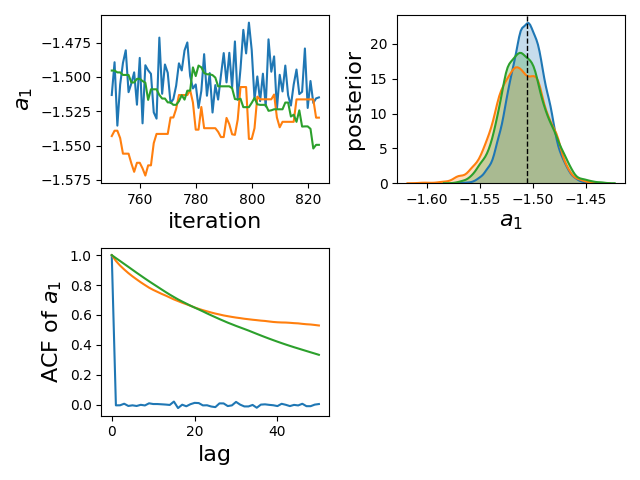
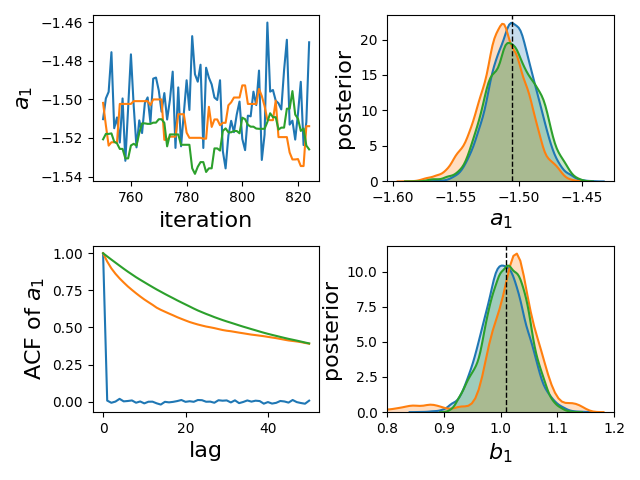
update

diff --git a/example2_oe.py b/example2_oe.py
@@ -25,19 +25,20 @@ import matplotlib.pyplot as plt
 from helpers import plot_trace
 from scipy import signal
 from oe import run_oe_hmc
+import seaborn as sns
 
 
 # specific data path
 data_path = 'data/example3_oe.mat'
-# input_order = 4
-# output_order = 3
-input_order = 11
-output_order = 10
+input_order = 4
+output_order = 3
+# input_order = 11
+# output_order = 10
 
 data = loadmat(data_path)
 y_val = data['y_validation'].flatten()
 
-(fit, traces) = run_oe_hmc(data_path, input_order, output_order, iter=10000)
+(fit, traces) = run_oe_hmc(data_path, input_order, output_order, iter=6000, OL=True, hot_start=True)
 
 yhat = traces['y_hat_val']
 yhat[np.isnan(yhat)] = 0.0
@@ -78,6 +79,10 @@ plt.legend(('y val','y hat'))
 plt.show()
 
 
+plt.plot(y_val[100:150])
+plt.plot(yhat_mean[100:150])
+plt.show()
+
 
 plot_trace(f_coef_traces[:,0],4,1,'f[0]')
 plot_trace(f_coef_traces[:,1],4,2,'f[2]')
@@ -101,6 +106,55 @@ B_ML = data['b_ml']
 F_ML2 = data['f_ml2']
 B_ML2 = data['b_ml2']
 
+
+
+# do a pairs plot to show marginals and joints
+# fontsize = 16
+#
+# plt.figure(figsize=(10,8.25))
+# plt.subplot(3,3,1)
+# plt.hist(f_coef_traces[:,1],30, density=True)
+# sns.kdeplot(f_coef_traces[:,1], shade=True)
+# plt.axvline(np.mean(f_coef_traces[:,1]), color='orange', lw=1, linestyle='--', label='mean')
+# plt.xlabel('$f_2$', fontsize=fontsize)
+# plt.ylabel('marginal', fontsize=fontsize)
+#
+# plt.subplot(3,3,4)
+# plt.plot(f_coef_traces[:,1],b_coef_traces[:,0],'.')
+# plt.xlabel('$f_2$',fontsize=fontsize)
+# plt.ylabel('$b_0$',fontsize=fontsize)
+#
+# plt.subplot(3,3,5)
+# plt.hist(b_coef_traces[:,0],30, density=True)
+# sns.kdeplot(b_coef_traces[:,0], shade=True)
+# plt.axvline(np.mean(B_ML[:,0]), color='red', lw=2, linestyle='--', label='mean')
+# plt.axvline(np.mean(b_true[:,0]), color='k', lw=2, linestyle='--', label='mean')
+# plt.axvline(np.mean(b_coef_traces[:,0]), color='orange', lw=2, linestyle='--', label='mean')
+# plt.xlabel('$b_0$', fontsize=fontsize)
+# plt.ylabel('marginal', fontsize=fontsize)
+#
+# plt.subplot(3,3,7)
+# plt.plot(f_coef_traces[:,1],b_coef_traces[:,2],'.')
+# plt.xlabel('$f_2$',fontsize=fontsize)
+# plt.ylabel('$b_2$',fontsize=fontsize)
+#
+# plt.subplot(3,3,8)
+# plt.plot(b_coef_traces[:,0],b_coef_traces[:,2],'.')
+# plt.xlabel('$b_0$',fontsize=fontsize)
+# plt.ylabel('$b_2$',fontsize=fontsize)
+#
+# plt.subplot(3,3,9)
+# plt.hist(b_coef_traces[:,2],30, density=True)
+# sns.kdeplot(b_coef_traces[:,2], shade=True)
+# plt.axvline(np.mean(B_ML[:,2]), color='red', lw=2, linestyle='--', label='mean')
+# plt.axvline(np.mean(b_true[:,2]), color='k', lw=2, linestyle='--', label='mean')
+# plt.axvline(np.mean(b_coef_traces[:,2]), color='orange', lw=2, linestyle='--', label='mean')
+# plt.xlabel('$b_2$', fontsize=fontsize)
+# plt.ylabel('marginal', fontsize=fontsize)
+#
+# plt.tight_layout()
+# # plt.savefig('figures/example_1_dists.png',format='png')
+# plt.show()
 
 
 def plot_dbode_ML(num_samples,den_samples,num_true,den_true,num_ML,den_ML,num_ML2,den_ML2,Ts,omega,no_plot=300, max_samples=1000, save=False):
@@ -140,7 +194,7 @@ def plot_dbode_ML(num_samples,den_samples,num_true,den_true,num_ML,den_ML,num_ML
     plt.semilogx(w.flatten(), mag_samples[:, 1:no_plot], color='green', alpha=0.1)  # Bode magnitude plot
     h1, = plt.semilogx(w.flatten(), mag_true, color='blue', label='True system')  # Bode magnitude plot
     hml, = plt.semilogx(w.flatten(), mag_ML,'--', color='purple', label='ML estimate')  # Bode magnitude plot
-    hml2, = plt.semilogx(w.flatten(), mag_ML2,'--', color='red', label='ML reg estimate')  # Bode magnitude plot
+    # hml2, = plt.semilogx(w.flatten(), mag_ML2,'--', color='red', label='ML reg estimate')  # Bode magnitude plot
     hm, = plt.semilogx(w.flatten(), np.mean(mag_samples, 1), '-.', color='orange', label='hmc mean')  # Bode magnitude plot
     # hu, = plt.semilogx(w.flatten(), np.percentile(mag_samples, 97.5, axis=1),'--',color='orange',label='Upper CI')    # Bode magnitude plot
 
@@ -148,27 +202,29 @@ def plot_dbode_ML(num_samples,den_samples,num_true,den_true,num_ML,den_ML,num_ML
     plt.legend()
     plt.title('Bode diagram')
     plt.ylabel('Magnitude')
-    plt.xlim((min(w.flatten()),min(max(omega),1/Ts*3.14)))
+    # plt.xlim((min(w.flatten()),min(max(omega),1/Ts*3.14)))
+    plt.xlim((1e-2, min(max(omega), 1 / Ts * 3.14)))
 
     plt.subplot(2, 1, 2)
     plt.semilogx(w.flatten(), phase_samples[:,:no_plot], color='green', alpha=0.1)  # Bode phase plot
     plt.semilogx(w.flatten(), phase_true, color='blue')  # Bode phase plot
     hml, = plt.semilogx(w.flatten(), phase_ML, '--', color='purple')  # Bode magnitude plot
-    hml, = plt.semilogx(w.flatten(), phase_ML2, '--', color='red')  # Bode magnitude plot
+    # hml, = plt.semilogx(w.flatten(), phase_ML2, '--', color='red')  # Bode magnitude plot
     plt.semilogx(w.flatten(), np.mean(phase_samples, 1), '-.', color='orange',
                        label='mean')  # Bode magnitude plot
     plt.ylabel('Phase (deg)')
     plt.xlabel('Frequency (rad/s)')
-    plt.xlim((min(w.flatten()), min(max(omega),1/Ts*3.14)))
-    plt.ylim((-500, 50))
+    # plt.xlim((min(w.flatten()), min(max(omega),1/Ts*3.14)))
+    plt.xlim((1e-2, min(max(omega), 1 / Ts * 3.14)))
+    plt.ylim((-400, 50))
 
     if save:
-        plt.savefig('bode_plot_oe.png',format='png')
+        plt.savefig('figures/bode_plot_oe.png',format='png')
 
     plt.show()
 
 
-plot_dbode_ML(b_coef_traces[:,-1::-1],f_coef_traces[:,-1::-1],b_true.flatten(),f_true.flatten(),B_ML.flatten(),F_ML.flatten(),B_ML2.flatten(),F_ML2.flatten(),Ts,w_plot,save=False)
+plot_dbode_ML(b_coef_traces[:,-1::-1],f_coef_traces[:,-1::-1],b_true.flatten(),f_true.flatten(),B_ML.flatten(),F_ML.flatten(),B_ML2.flatten(),F_ML2.flatten(),Ts,w_plot,save=True)
 
 
 

diff --git a/example1_arx_part1.py b/example1_arx_part1.py
@@ -29,6 +29,7 @@ from scipy.io import loadmat
 
 from arx_hmc import run_arx_hmc
 from arx_mh import run_arx_mh
+from mh_functions import build_phi_matrix as build_phi_matrix_MH
 
 
 
@@ -57,6 +58,8 @@ a_coef_mean = np.mean(a_hmc,0)
 b_coef_mean = np.mean(b_hmc,0)
 a1_hmc = a_hmc[:,0]
 acf_hmc = calculate_acf(a1_hmc)
+a2_hmc = a_hmc[:,1]
+b2_hmc = b_hmc[:,1]
 
 yhat_hmc = results_hmc['y_hat']      # validation predictions
 yhat_hmc[np.isnan(yhat_hmc)] = 0.0
@@ -71,14 +74,43 @@ MF_hmc = 100*(1-np.sum(np.power(y_val-yhat_mean_hmc,2))/np.sum(np.power(y_val,2)
 results_mh = run_arx_mh(mh2=False)
 a1_mh = results_mh['a1']
 acf_mh = calculate_acf(a1_mh)
+a2_mh = results_mh['a2']
+b2_mh = results_mh['b1']
 
 # estimate using mMALA
 results_mMala = run_arx_mh(mh2=True)
 a1_mMALA = results_mMala['a1']
 acf_mMALA = calculate_acf(a1_mMALA)
+a2_mMALA = results_mMala['a2']
+b2_mMALA = results_mMala['b1']
+
+
+## calculate model fit for the MH and mMALA estimates
+order_a = 2
+order_b = 3
+Phi_val = build_phi_matrix_MH(obs=data['y_validation'].flatten(),
+                          order=(order_a, order_b), inputs=data['u_validation'].flatten())
+theta_MH = results_mh['theta']
+theta_MH_mean = np.mean(theta_MH,0)
+yhat_MH = np.matmul(Phi_val,theta_MH_mean)
+MF_MH = 100*(1-np.sum(np.power(y_val[1:]-yhat_MH,2))/np.sum(np.power(y_val[1:],2)))
+
+
+theta_mMALA = results_mMala['theta']
+theta_mMALA_mean = np.mean(theta_mMALA,0)
+yhat_mMALA = np.matmul(Phi_val,theta_mMALA_mean)
+MF_mMALA = 100*(1-np.sum(np.power(y_val[1:]-yhat_mMALA,2))/np.sum(np.power(y_val[1:],2)))
+
+
+plt.plot(y_val)
+plt.plot(yhat_MH)
+plt.show()
 
 # check goodness of fit, and plot some diagnostics
 fontsize= 16
+
+
+
 
 plt.subplot(2,2,1)
 plt.plot(np.arange(750,825),a1_hmc[750:825])
@@ -102,9 +134,23 @@ plt.plot(acf_mMALA)
 plt.xlabel('lag', fontsize=fontsize)
 plt.ylabel('ACF of $a_1$', fontsize=fontsize)
 # plt.legend(('chain 1','chain 2','chain 3','chain 4'), fontsize=20)
+
+
+b_ML = data['b_ML'][0]
+plt.subplot(2,2,4)
+sns.kdeplot(b2_hmc, shade=True)
+sns.kdeplot(b2_mh, shade=True)
+sns.kdeplot(b2_mMALA, shade=True)
+plt.axvline(b_ML[1], color='k', lw=1, linestyle='--')
+plt.xlabel('$b_1$', fontsize=fontsize)
+plt.ylabel('posterior', fontsize=fontsize)
+plt.xlim((0.8,1.2))
+
 plt.tight_layout()
 plt.savefig("figures/example1_diagnostics.png", format='png')
 plt.show()
+
+
 
 
 

diff --git a/example3_fir.py b/example3_fir.py
@@ -153,7 +153,8 @@ plt.plot(np.arange(0,len(np.mean(b_hs,axis=0))),np.mean(b_hs,axis=0))
 plt.fill_between(np.arange(0,len(np.mean(b_hs,axis=0))),lower,upper,alpha=0.2)
 plt.xlabel('$t$',fontsize=16)
 plt.ylabel('impulse response',fontsize=12)
-plt.legend(('true','HMC with horseshow prior','95% CI'))
+# plt.legend(('true','HMC with horseshow prior','95% CI'))
+plt.title('HMC with horseshoe prior')
 
 upper = np.percentile(b_tc, 97.5, axis=0)
 lower = np.percentile(b_tc, 2.5, axis=0)
@@ -163,23 +164,26 @@ plt.plot(np.arange(0,len(np.mean(b_tc,axis=0))),np.mean(b_tc,axis=0))
 plt.fill_between(np.arange(0,len(np.mean(b_hs,axis=0))),lower,upper,alpha=0.2)
 plt.xlabel('$t$',fontsize=16)
 plt.ylabel('impulse response',fontsize=12)
-plt.legend(('true','HMC with TC prior'))
+# plt.legend(('true','HMC with TC prior'))
 plt.ylim([-0.02,0.23])
+plt.title('HMC with TC prior')
 
 plt.subplot(2,2,1)
 plt.plot(g_true,'k')
 plt.plot(b_ML0[0,:])
 plt.xlabel('$t$',fontsize=16)
-plt.ylabel('figures/impulse response',fontsize=12)
-plt.legend(('True','ARX assuming $n_b=13$'))
+plt.ylabel('impulse response',fontsize=12)
+# plt.legend(('True','ARX assuming $n_b=13$'))
+plt.title('ML assuming $n_b = 13$')
 
 plt.subplot(2,2,3)
 plt.plot(g_true,'k')
 plt.plot(b_ML[0,:])
 plt.xlabel('$t$',fontsize=16)
 plt.ylabel('impulse response',fontsize=12)
-plt.legend(('true','ARX with TC kernel','95% CI'))
+# plt.legend(('true','ARX with TC kernel','95% CI'))
 plt.ylim([-0.02,0.23])
+plt.title('ML with TC regularisation')
 plt.tight_layout()
 plt.savefig('fir_impulse.png',format='png')
 plt.show()

diff --git a/example2_oe_slack_variable.py b/example2_oe_slack_variable.py
@@ -18,6 +18,9 @@
 
 """ Runs the code for example 3 in the paper and produces the figures """
 """ This demonstrates Bayesian estimation of output error models using HMC """
+""" In this example we introduce an auxilary slack variable and along with the parameters
+    estimate the error sequence. Although this increases computational requirements
+    it results in more robust identification """
 
 import numpy as np
 from scipy.io import loadmat
@@ -29,15 +32,15 @@ from oe import run_oe_hmc
 
 # specific data path
 data_path = 'data/example3_oe.mat'
-input_order = 4
-output_order = 3
-# input_order = 11
-# output_order = 10
+# input_order = 4
+# output_order = 3
+input_order = 11
+output_order = 10
 
 data = loadmat(data_path)
 y_val = data['y_validation'].flatten()
 
-(fit, traces) = run_oe_hmc(data_path, input_order, output_order, iter=6000, OL=True, hot_start=True)
+(fit, traces) = run_oe_hmc(data_path, input_order, output_order, iter=10000)
 
 yhat = traces['y_hat_val']
 yhat[np.isnan(yhat)] = 0.0
@@ -77,10 +80,6 @@ plt.ylim((-2,2))
 plt.legend(('y val','y hat'))
 plt.show()
 
-
-plt.plot(y_val[100:150])
-plt.plot(yhat_mean[100:150])
-plt.show()
 
 
 plot_trace(f_coef_traces[:,0],4,1,'f[0]')

diff --git a/arx_mh.py b/arx_mh.py
@@ -98,8 +98,8 @@ def run_arx_mh( mh2=True):
             print("Iteration: {} of {} done with accept rate: {}.".format(k+1, no_iters, np.round(accepted / k, 2)))
 
     # Save to file for plotting in R
-    output = {'sigmae': theta[no_burnin_iters:no_iters, order_ab]}
-
+    output = {'sigmae': theta[no_burnin_iters:no_iters, order_ab],
+              'theta': theta[no_burnin_iters:no_iters, :order_ab]}
     for i in range(order_a):
         a_name = 'a' + str(i+1)
         # the negative sign is needed because of how the regressor matrix was defined for the metropolis hastings function
